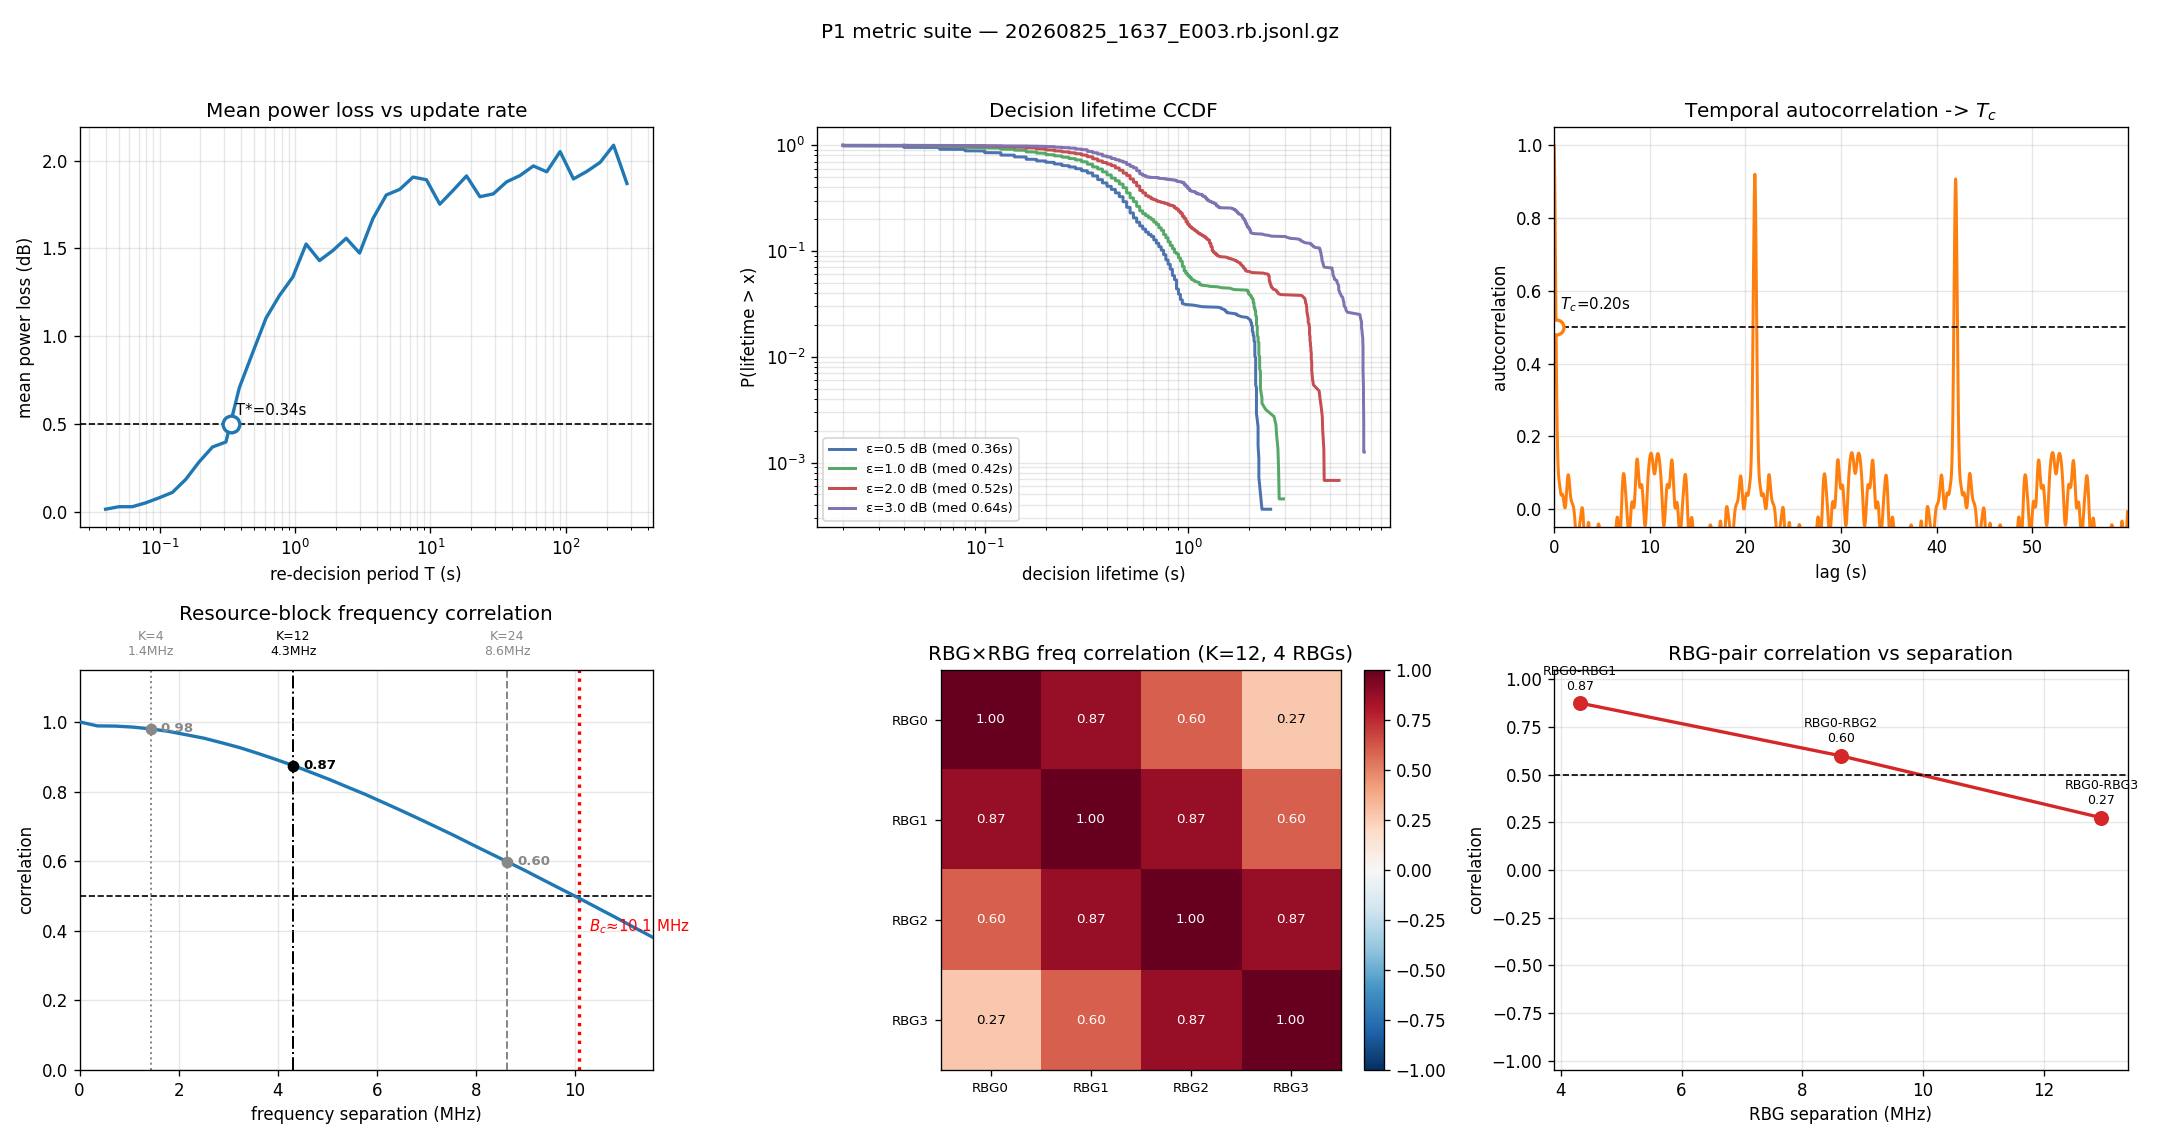
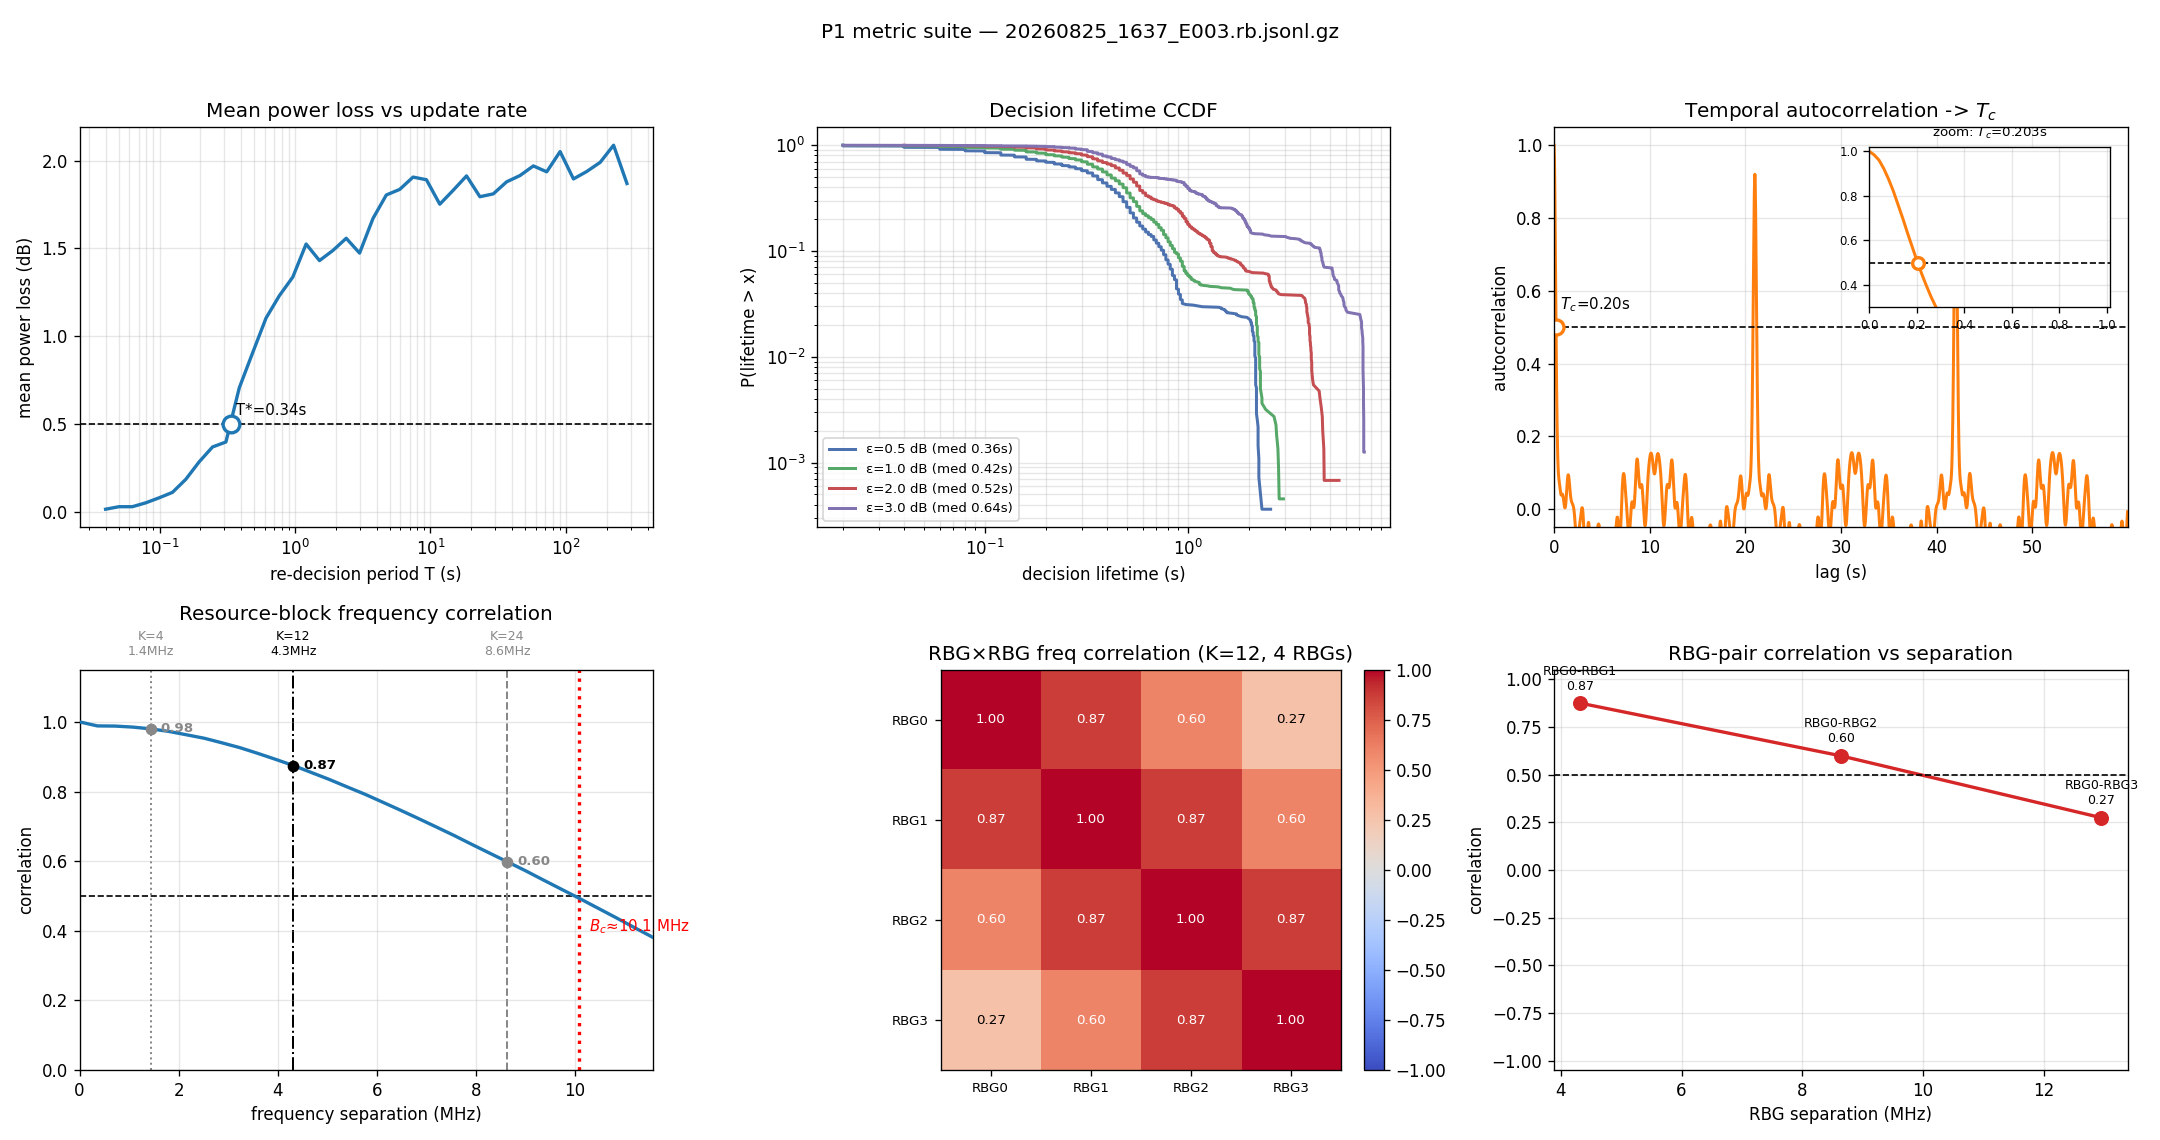
metrics_suite: add Tc-crossing inset zoom, clearer coolwarm colormap for RBG matrix

diff --git a/tools/metrics_suite.py b/tools/metrics_suite.py
@@ -177,6 +177,17 @@ def main():
     if not np.isnan(Tc):
         ax[0,2].plot(Tc, 0.5, "o", ms=9, mfc="w", mew=2, color="#ff7f0e")
         ax[0,2].text(Tc, 0.55, f" $T_c$={Tc:.2f}s", fontsize=9)
+    # inset: zoom on the first crossing so Tc is clearly visible
+    if not np.isnan(Tc):
+        axins = ax[0,2].inset_axes([0.55, 0.55, 0.42, 0.4])
+        zoom_max = max(5*Tc, 0.3)
+        mzoom = lag <= zoom_max
+        axins.plot(lag[mzoom], ac[mzoom], lw=1.8, color="#ff7f0e")
+        axins.axhline(0.5, ls="--", c="k", lw=1)
+        axins.plot(Tc, 0.5, "o", ms=7, mfc="w", mew=2, color="#ff7f0e")
+        axins.set_xlim(0, zoom_max); axins.set_ylim(0.3, 1.02)
+        axins.set_title(f"zoom: $T_c$={Tc:.3f}s", fontsize=8)
+        axins.tick_params(labelsize=7); axins.grid(alpha=0.3)
     ax[0,2].set_xlabel("lag (s)"); ax[0,2].set_ylabel("autocorrelation")
     ax[0,2].set_title("Temporal autocorrelation -> $T_c$")
     ax[0,2].set_xlim(0, min(60, lag[-1])); ax[0,2].set_ylim(-0.05, 1.05); ax[0,2].grid(alpha=0.3)
@@ -215,7 +226,7 @@ def main():
 
     # G RBG×RBG correlation matrix (heatmap), modular in K
     corrM, R_ru = ru_corr_matrix(cf, a.K, NRB)
-    im = ax[1,1].imshow(corrM, vmin=-1, vmax=1, cmap="RdBu_r", origin="upper")
+    im = ax[1,1].imshow(corrM, vmin=-1, vmax=1, cmap="coolwarm", origin="upper")
     ax[1,1].set_xticks(range(R_ru)); ax[1,1].set_yticks(range(R_ru))
     ax[1,1].set_xticklabels([f"RBG{i}" for i in range(R_ru)], fontsize=8)
     ax[1,1].set_yticklabels([f"RBG{i}" for i in range(R_ru)], fontsize=8)
